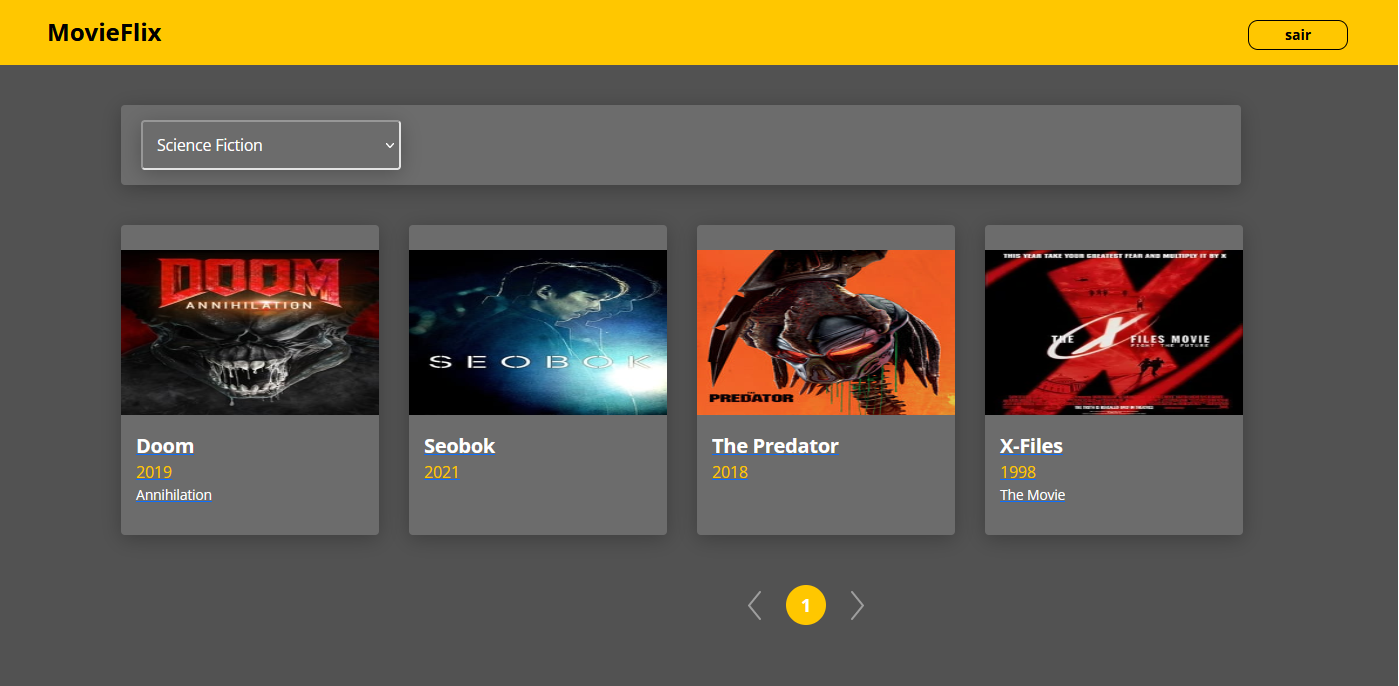
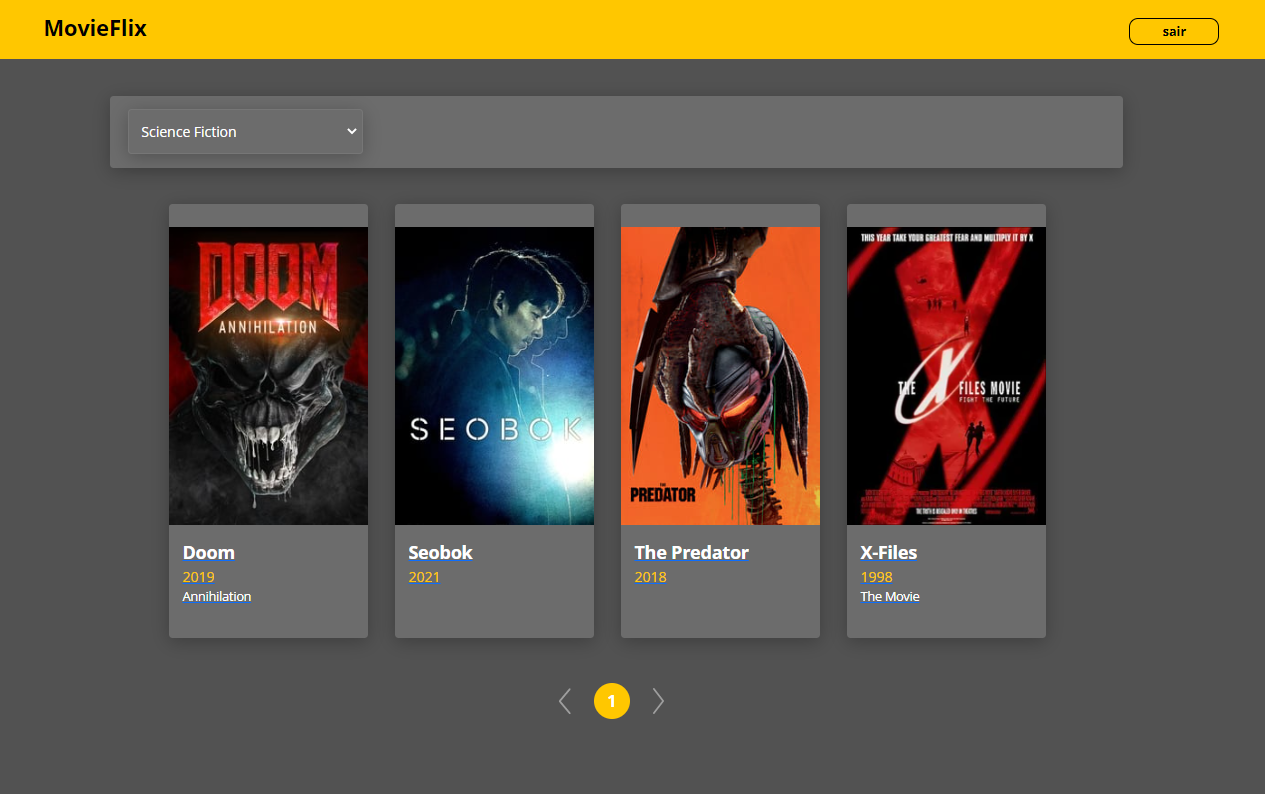
CSS fixes

diff --git a/front-web/src/pages/Home/Login/index.tsx b/front-web/src/pages/Home/Login/index.tsx
@@ -1,64 +1,65 @@
-import ButtonIcon from 'core/components/ButtonIcon';
-import { saveSessionData } from 'core/utils/auth';
-import { makeLogin } from 'core/utils/request';
-import { useState } from 'react';
-import { useForm } from 'react-hook-form';
-import { useHistory } from 'react-router-dom';
-import './styles.scss';
+import ButtonIcon from "core/components/ButtonIcon";
+import { saveSessionData } from "core/utils/auth";
+import { makeLogin } from "core/utils/request";
+import { useState } from "react";
+import { useForm } from "react-hook-form";
+import { useHistory } from "react-router-dom";
+import "./styles.scss";
 
 type FormData = {
-    username: string;
-    password: string;
-}
+  username: string;
+  password: string;
+};
 
 const Login = () => {
+  const { register, handleSubmit } = useForm<FormData>();
+  const [hasError, setHasError] = useState(false);
+  const history = useHistory();
 
-    const {
-        register,
-        handleSubmit,
-      } = useForm<FormData>();
-    const [hasError, setHasError] = useState(false);
-    const history = useHistory();
+  const onSubmit = (data: FormData) => {
+    makeLogin(data)
+      .then((response) => {
+        setHasError(false);
+        saveSessionData(response.data);
+        history.push("/movies");
+      })
+      .catch(() => {
+        setHasError(true);
+      });
+  };
 
-    const onSubmit = (data: FormData) => {
-        makeLogin(data)
-        .then(response => {
-            setHasError(false);
-            saveSessionData(response.data);
-            history.push('/movies')
-        })
-        .catch(() => {
-            setHasError(true);
-        })
-    };
+  return (
+    <div className="login-container">
+      <h1 className="login-style">LOGIN</h1>
 
-    return (
-        <div className="login-container">
-            <h1 className="login-style">LOGIN</h1>
-            
-            <form onSubmit={handleSubmit(onSubmit)}>
-                <input
-                    type="email"
-                    className="text-form"
-                    placeholder="e-mail"
-                    {...register('username', {required: true})}
-                />
-                <input
-                    type="password"
-                    className="text-form"
-                    placeholder="password"
-                    {...register('password', {required: true})}
-                />
-                <ButtonIcon button="login" />
-            </form>
-            {hasError&&(
-                <div className="alert alert-warning mt-4">
-                    Usuário ou senha inválidos!
-                </div>)
-            }
+      <form onSubmit={handleSubmit(onSubmit)}>
+        <input
+          type="email"
+          className="text-form"
+          placeholder="e-mail"
+          {...register("username", { required: true })}
+        />
+        <input
+          type="password"
+          className="text-form"
+          placeholder="password"
+          {...register("password", { required: true })}
+        />
+        <ButtonIcon button="login" />
+      </form>
+      {hasError ? (
+        <div className="alert alert-warning mt-4">
+          Usuário ou senha inválidos!
         </div>
-    )
-    
-}
+      ) : (
+        <div className="alert alert-warning mt-4">
+          O backend no Heroku está dormente... zZzZ... O login pode demorar
+          alguns segundos a mais para ser finalizado: tempo necessário para que
+          o servidor acorde! =D
+        </div>
+      )}
+    </div>
+  );
+};
 
 export default Login;

diff --git a/front-web/src/pages/Movies/components/MovieDetails/index.tsx b/front-web/src/pages/Movies/components/MovieDetails/index.tsx
@@ -1,50 +1,44 @@
-import { Movie } from 'core/types/Movie';
-import { makePrivateRequest } from 'core/utils/request';
-import { useState, useEffect } from 'react';
-import { useParams } from 'react-router-dom';
-import MovieMakeReview from '../MovieReview';
-import './styles.scss';
+import { Movie } from "core/types/Movie";
+import { makePrivateRequest } from "core/utils/request";
+import { useState, useEffect } from "react";
+import { useParams } from "react-router-dom";
+import MovieMakeReview from "../MovieReview";
+import "./styles.scss";
 
 type ParamsType = {
-    movieId: string;
-}
+  movieId: string;
+};
 
 const MovieDetails = () => {
+  const { movieId } = useParams<ParamsType>();
+  const [movie, setMovie] = useState<Movie>();
 
-    const { movieId } = useParams<ParamsType>();
-    const [ movie, setMovie ] = useState<Movie>();
+  useEffect(() => {
+    makePrivateRequest({ url: `/movies/${movieId}` }).then((response) =>
+      setMovie(response.data)
+    );
+  }, [movieId]);
 
-    useEffect(() => {
-        makePrivateRequest({url: `/movies/${movieId}`})
-        .then(response => setMovie(response.data));
-    }, [movieId]);
-
-    return (
-        <div className="movie-details-container">
-        <div className="movie-detail-container">
-            <img src={movie?.imgUrl} alt={movie?.title} className="image-container" />
-            <div className="details-container">
-                <h2 className="movie-title">
-                    {movie?.title}
-                </h2>
-                <h3 className="movie-year">
-                    {movie?.year}
-                </h3>
-                <h3 className="movie-subtitle">
-                    {movie?.subTitle}
-                </h3>
-                <h4 className="movie-synopsis">
-                    {movie?.synopsis}
-                </h4>
-            </div>
+  return (
+    <div className="movie-details-container">
+      <div className="movie-detail-container">
+        <img
+          src={movie?.imgUrl}
+          alt={movie?.title}
+          className="image-container"
+        />
+        <div className="detail-items-container">
+          <h2 className="movie-title">{movie?.title}</h2>
+          <h3 className="movie-year">{movie?.year}</h3>
+          <h3 className="movie-subtitle">{movie?.subTitle}</h3>
+          <h4 className="movie-synopsis">{movie?.synopsis}</h4>
         </div>
-        <div className="movie-text-box-container">
-            {movie?.id && <MovieMakeReview id={movie?.id}/>}
-            
-        </div>
-
+      </div>
+      <div className="movie-text-box-container">
+        {movie?.id && <MovieMakeReview id={movie?.id} />}
+      </div>
     </div>
-    )
-}
+  );
+};
 
 export default MovieDetails;

diff --git a/mobile/src/pages/Movies.tsx b/mobile/src/pages/Movies.tsx
@@ -5,6 +5,7 @@ import { ScrollView } from 'react-native-gesture-handler';
 import { theme } from '../styles';
 import { useState, useEffect } from "react";
 import { api } from '../services';
+import { isAuthenticated } from '../services/auth';
 
 const Movies: React.FC = () => {
 
@@ -14,6 +15,7 @@ const Movies: React.FC = () => {
     async function fillMovies() {
         setLoading(true);
        // const res = await api.get(`/movies`);
+       console.log("filling");
         setMovies(((await api.get(`/movies`)).data.content));
         setLoading(false);
     }

diff --git a/front-web/src/pages/Movies/components/MovieDetails/styles.scss b/front-web/src/pages/Movies/components/MovieDetails/styles.scss
@@ -12,13 +12,16 @@
     background: #6C6C6C;
     box-shadow: 0px 4px 20px rgba(0, 0, 0, 0.25);
     padding-left: 140px;
-    padding-top: 40px;
 }
 
 .image-container {
-    padding-top: 100px;
-    width: 500px;
-    height: 310px;
+    margin: 50px 0px 0px 0px;
+    width: 300px;
+    height: 410px;
+}
+
+.detail-items-container {
+    margin: -405px 0px 0px 390px;
 }
 
 .movie-text-box-container {

diff --git a/front-web/src/pages/Movies/components/MovieCard/styles.scss b/front-web/src/pages/Movies/components/MovieCard/styles.scss
@@ -1,6 +1,6 @@
 .card-base{
-    width: 258px;   
-    height: 310px;
+    width: 220px;   
+    height: 480px;
     background: #6C6C6C;
     box-shadow: 0px 4px 20px rgba(0, 0, 0, 0.25);
     border-radius: 4px;
@@ -8,8 +8,8 @@
 }
 
 .movie-card-image{
-    width: 258px;
-    height: 165px;
+    width: 220px;
+    height: 330px;
     margin-top: 25px;
     background: black;
 }

diff --git a/mobile/src/services/auth.ts b/mobile/src/services/auth.ts
@@ -34,7 +34,7 @@ async function setASyncKeys(key: string, value: string) {
 export async function isAuthenticated() {
     try {
         const token = await ASyncStorage.getItem("@token");
-        token ? console.warn("Logado") : console.warn ("Deslogado")
+        token ? console.warn("Logado") : console.warn ("Deslogado");
     } catch (e) {
         console.warn(e);
     }

diff --git a/front-web/src/pages/Movies/styles.scss b/front-web/src/pages/Movies/styles.scss
@@ -11,7 +11,8 @@
 }
 
 .cards-align {
-    width: 1400px;
+    width: 1010px;
     margin-top: 40px;;
-    margin-left: -15px;
+    margin-left: 50px;
+    align-items: center;
 }
